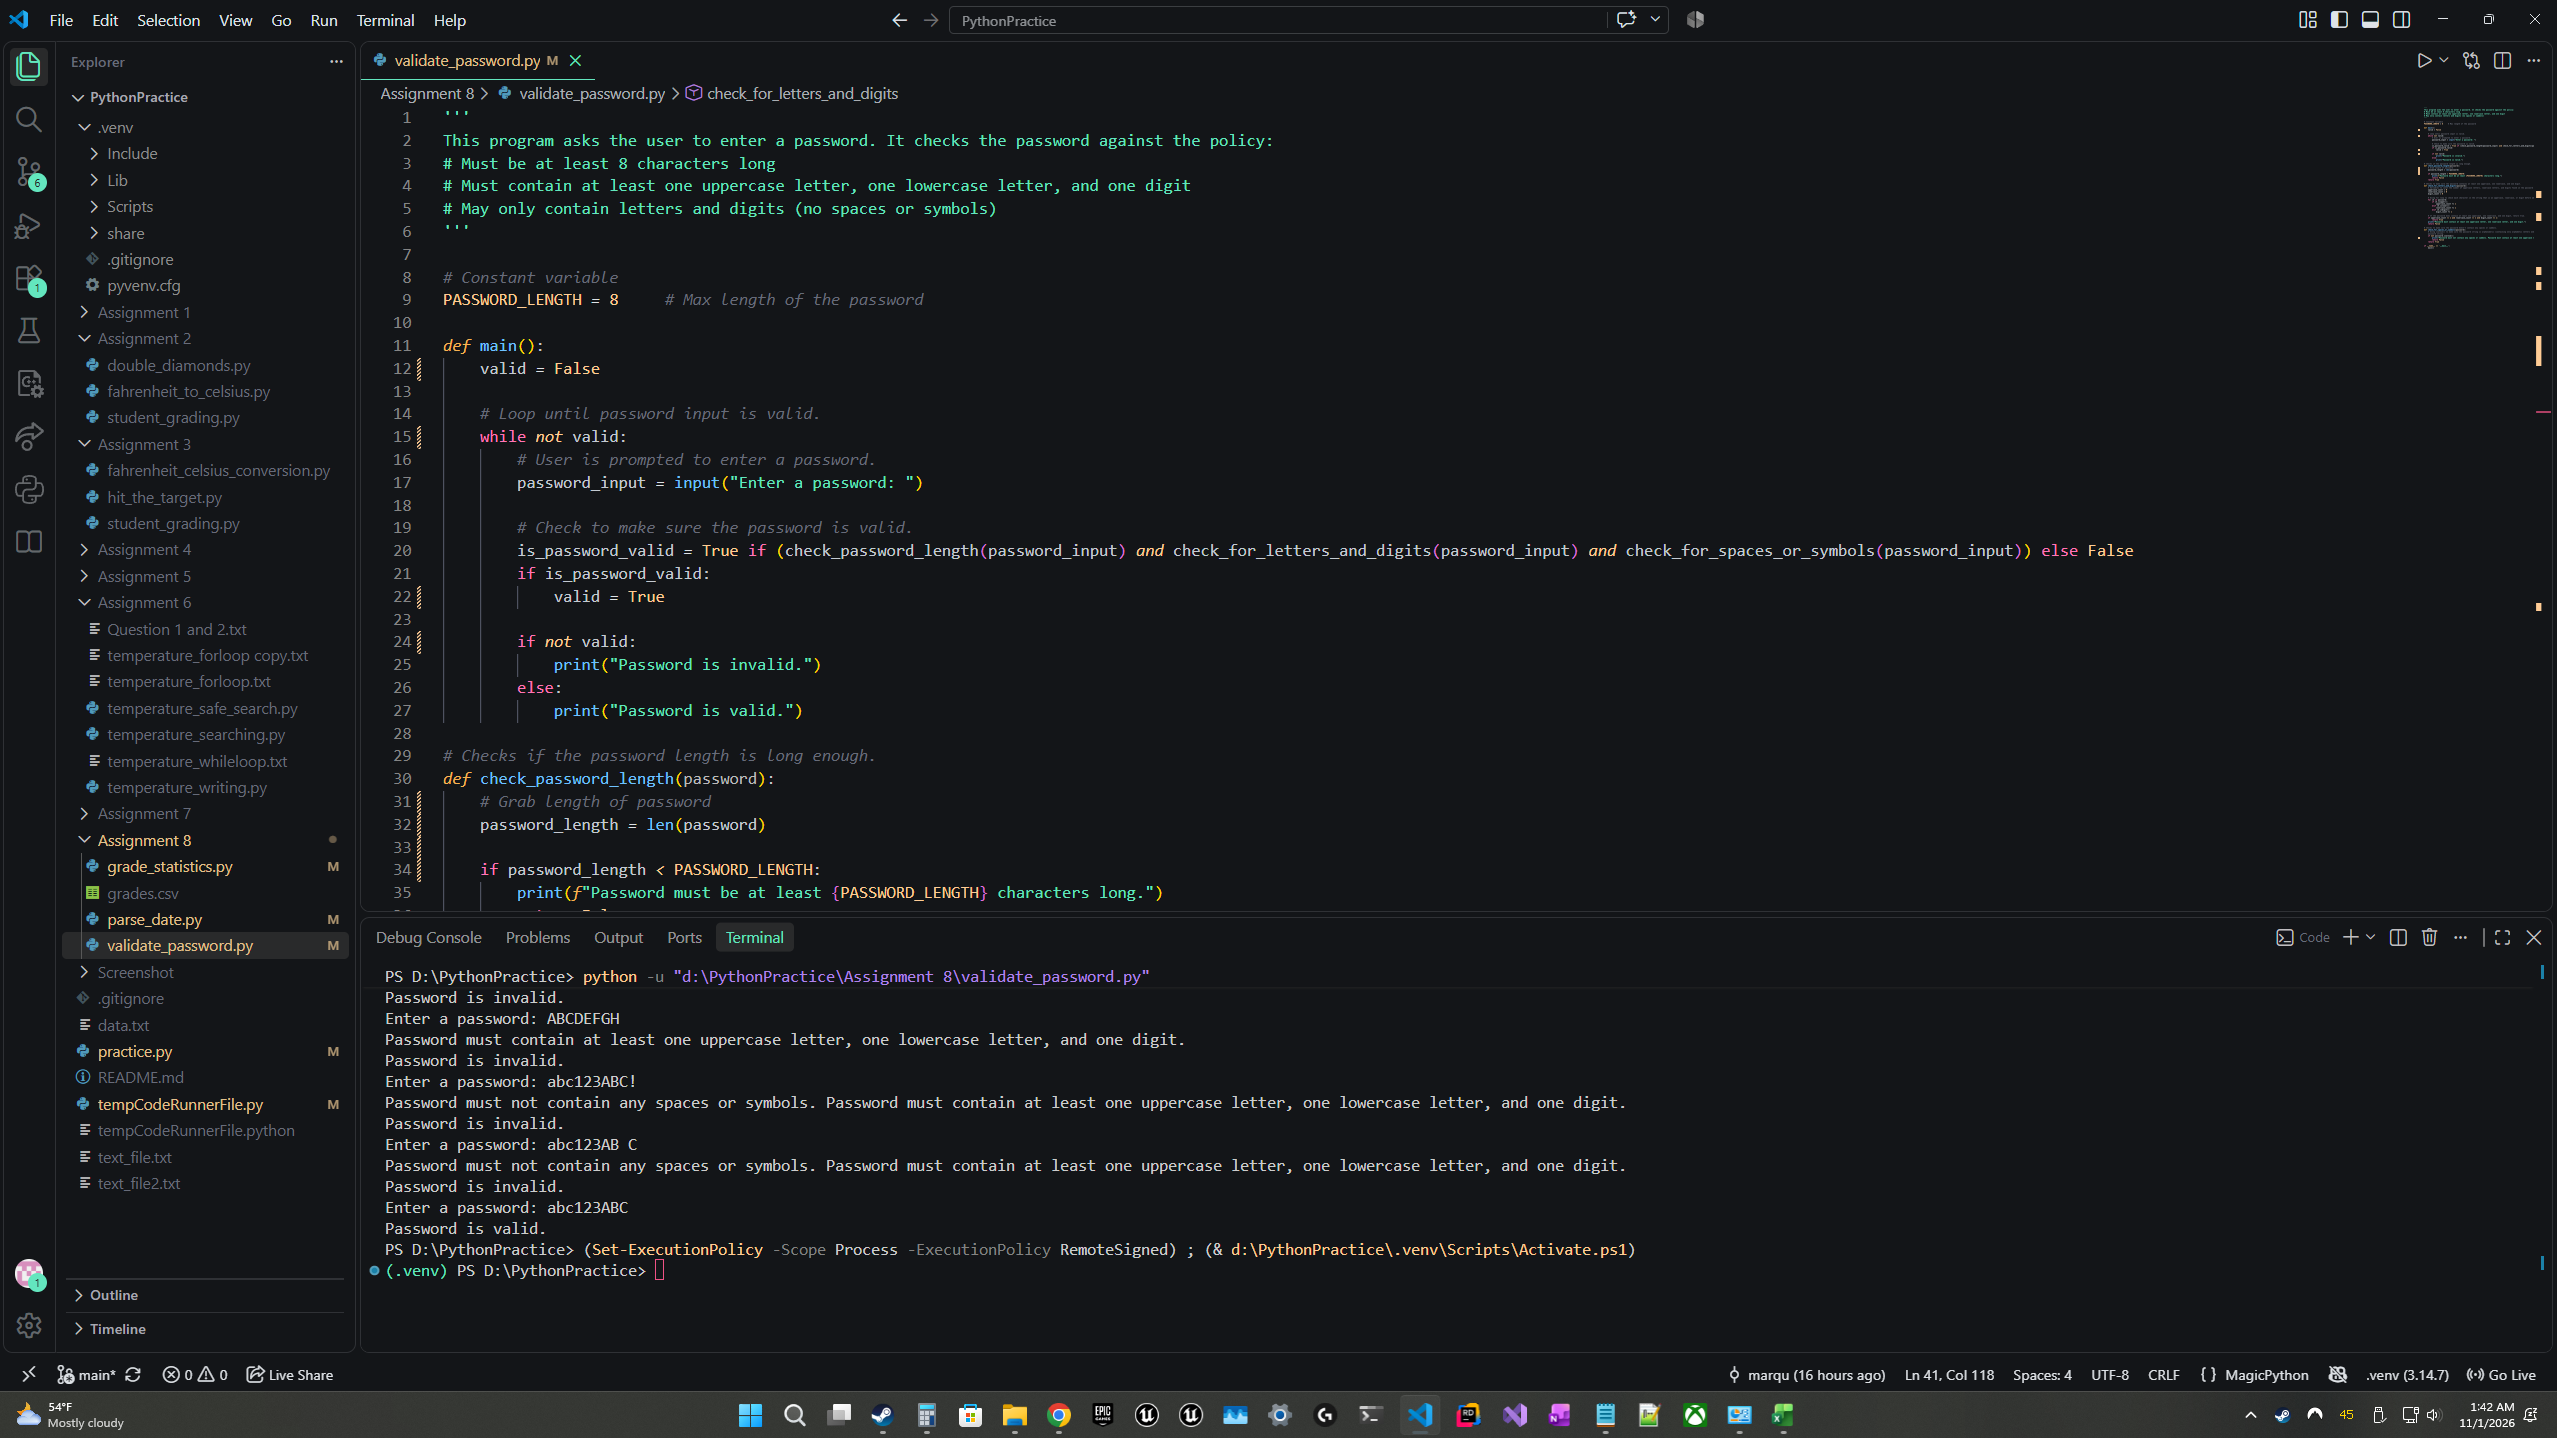
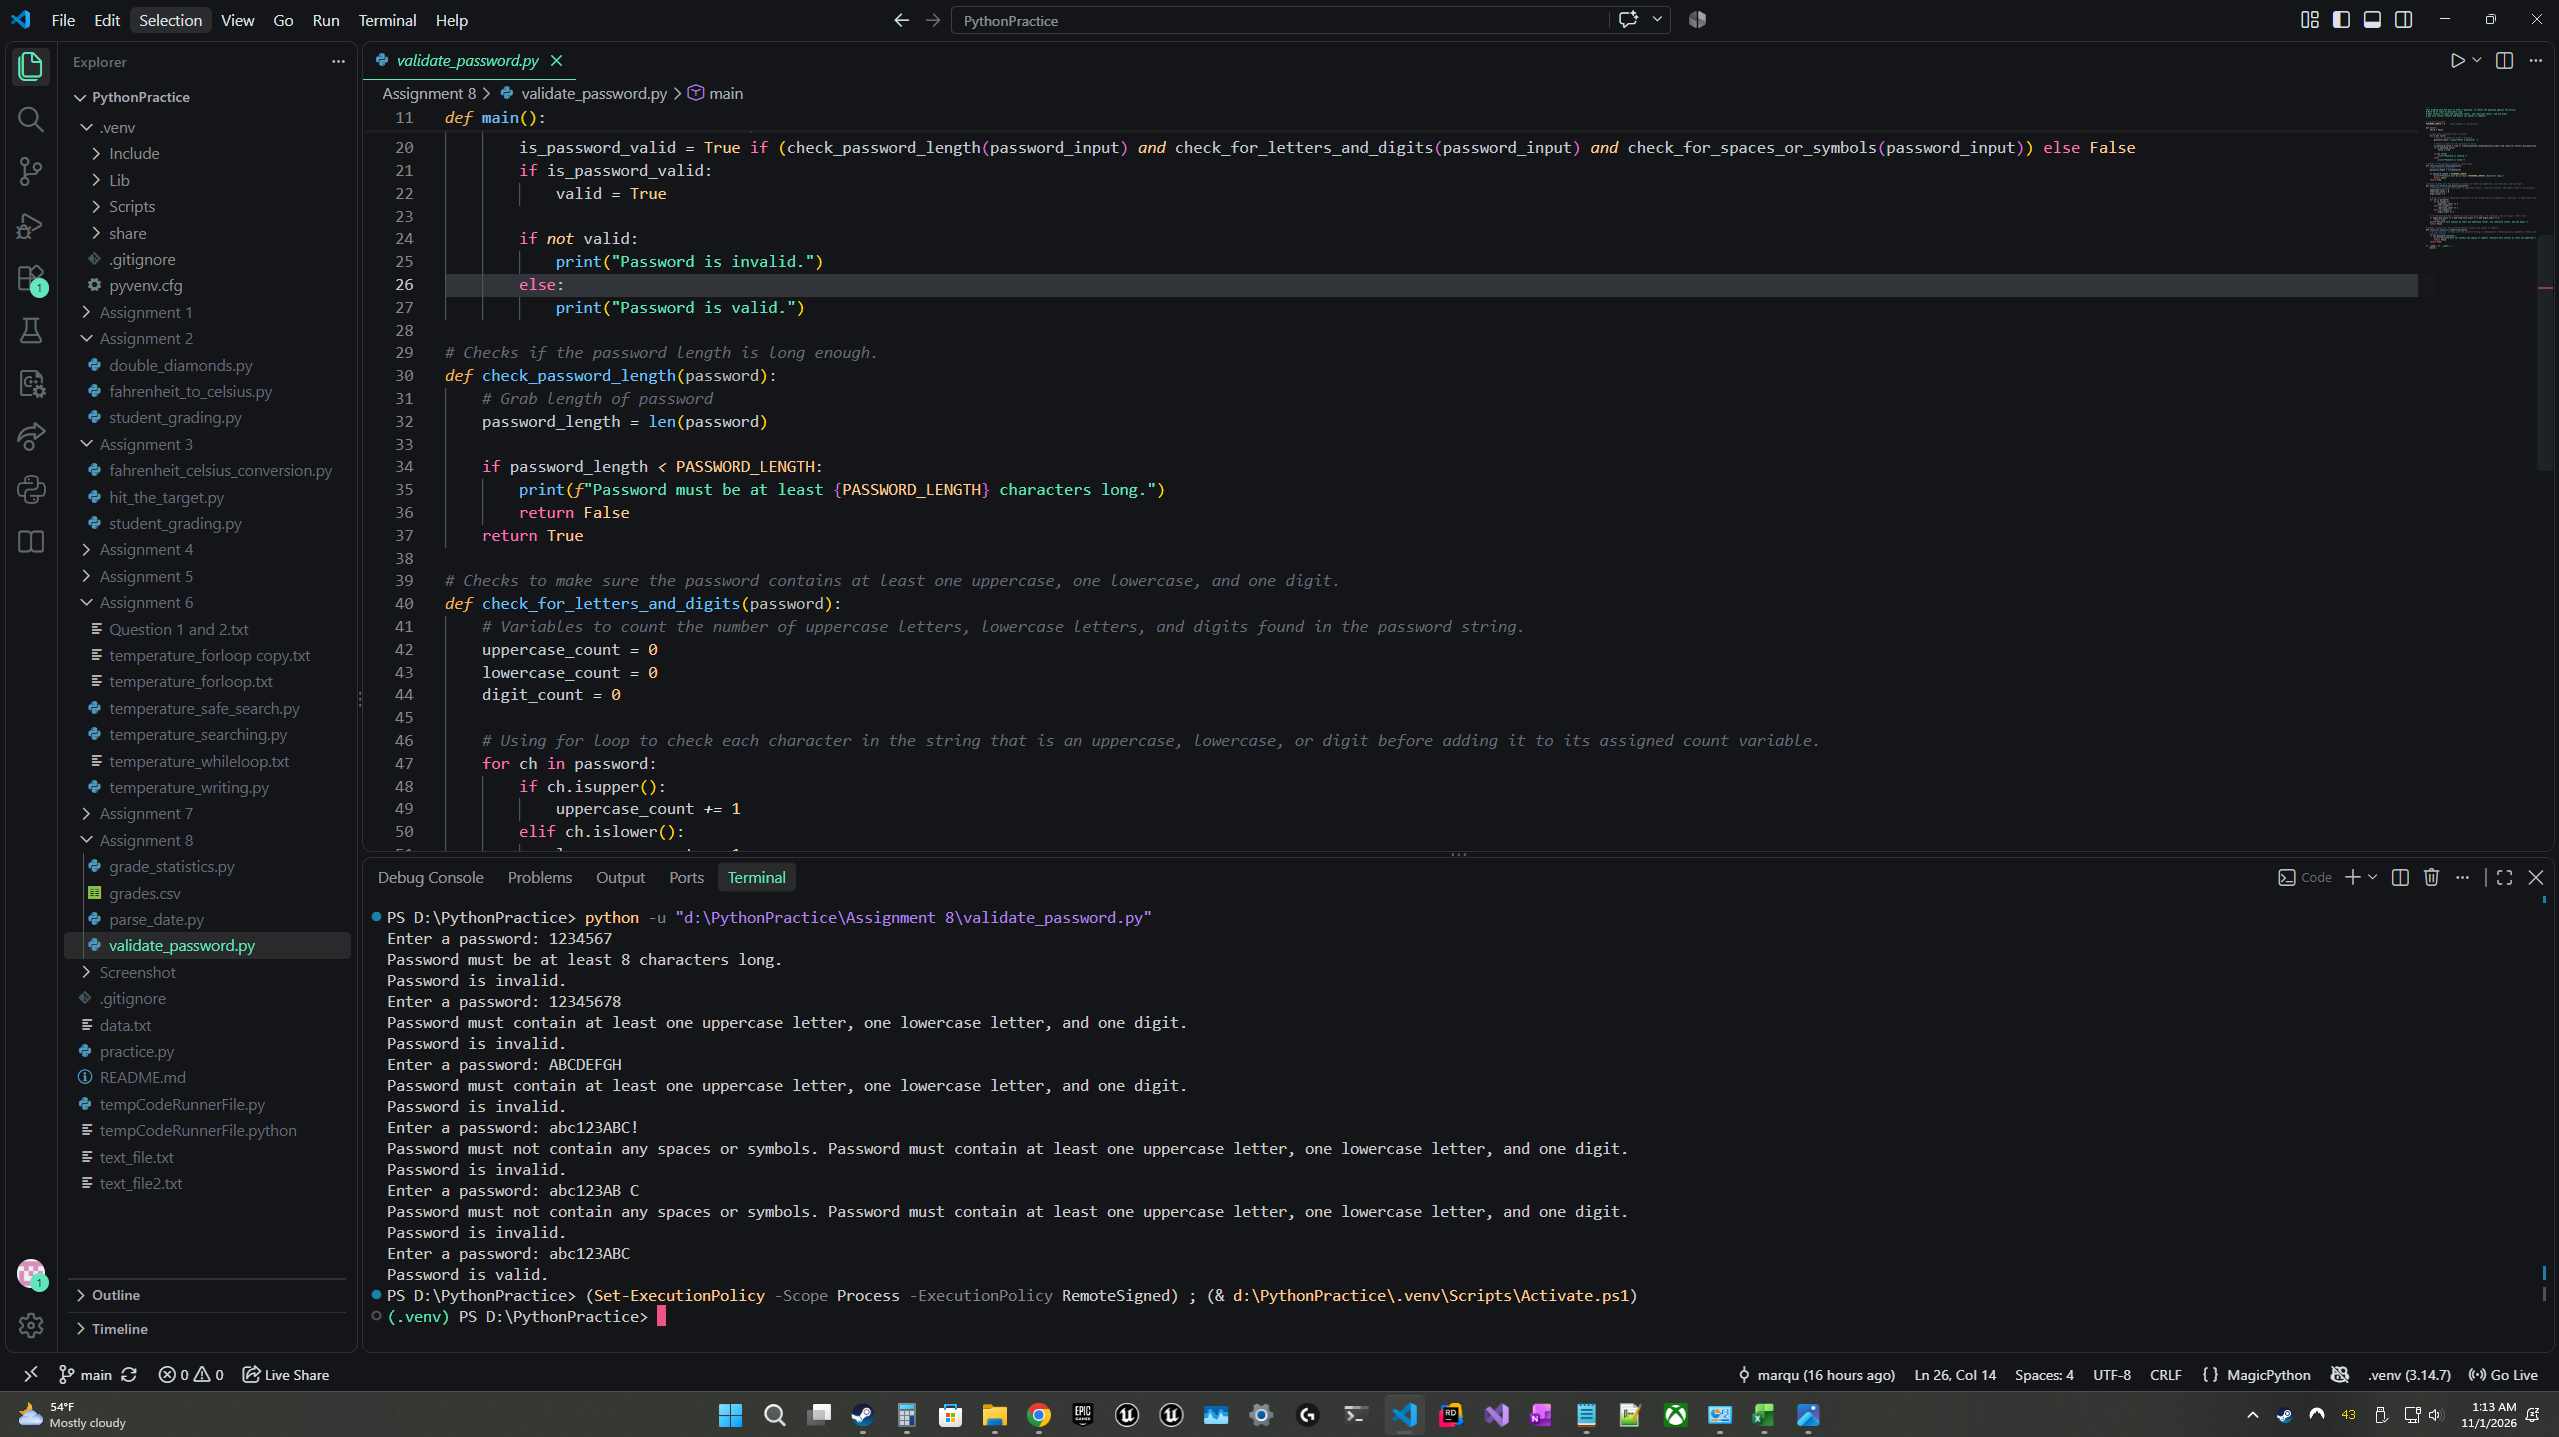
Your commitment log message to sum this batch of changes

diff --git a/practice.py b/practice.py
@@ -1,147 +1,3 @@
-from pathlib import Path
+f = ['0', '1']
 
-GRADES_FILE = Path(__file__).resolve().parent /"grades.csv"
-
-TEST_WEIGHT = 0.3
-EXAM_WEIGHT = 0.3
-DISCUSSION_WEIGHT = 0.2
-PROJECT_WEIGHT = 0.2
-
-
-def main():
-    """Read the grades file, compute each student's weighted final
-    grade, and print a summary of how many students fall into each
-    grade range.
-
-    # TODO - Read GRADES_FILE and build a list of each student's
-    #        weighted final grade (skip the header row, and use
-    #        process_row() to do the per-student work).
-    # TODO - Pass that list to analyze_grade() to print the summary.
-    # TODO - Use try/except to handle a missing file and any other
-    #        errors that can occur while reading or processing it.
-    """
-
-    # Empty student list and weighted grades to store values
-    student_list = []
-    weighted_grade_list = []
-
-    try:
-        with open(GRADES_FILE, 'r') as grades:
-            # Skipping the header row and starting on the row of the first student.
-            line = grades.readline()
-            line = grades.readlines()
-
-            for l in line:
-                # Splitting the commas before appending each student to list
-                s = l.split(',')
-                student_list.append(s)
-
-        # Once finished with the CSV file, calculate each student's average grades and weighted grades.
-        for i in range(len(student_list)):
-            # Getting each student's average scores of the test, exam, discussion, and project.
-            test_avg_score, exam_avg_score, discussion_avg_score, project_avg_score = process_row(student_list[i][2:])    # The [2:] is used to bypass the name and studentID
-  
-            # Calculating the weighted final score before adding the score to weighted grade list.
-            weight_final_grade = weight_final(test_avg_score, exam_avg_score, discussion_avg_score, project_avg_score)
-            weighted_grade_list.append(weight_final_grade)
-
-        # Calculating the average of the scores by adding all the students' weighted grades together.
-        average_scores = average_subject(weighted_grade_list)
-        print(f"The average of the {len(weighted_grade_list)} scores is: {average_scores}")
-
-        # Calculating how many students fall into each grade range.
-        analyze_grade(weighted_grade_list)
-    except FileNotFoundError as file_error:
-        print(file_error)
-
-def process_row(row):
-    """Given one row from the grades file, return that student's
-    weighted final grade (bypass the Name and StudentID columns)."""
-    # TODO - Implement this function.
-
-    # Constant variables inside this function. Based on the CSV file, the total number of each subject of tests, exams, and discussions.
-    TOTAL_TEST_SCORES = 4
-    TOTAL_EXAMS_SCORES = 2
-    TOTAL_DISCUSSION_SCORES = 2
-
-    # Used to keep calculation of the average grade scores
-    test_average_score = 0
-    exam_average_score = 0
-    discussion_average_score = 0
-    
-    # Calculating the test grade average
-    for i in range(0, len(row) - (TOTAL_TEST_SCORES + 1)):
-        test_average_score += (float(row[i]) * TEST_WEIGHT)
-    test_average_score /= TOTAL_TEST_SCORES
-
-    # Calculating the exam grade average
-    for i in range(4, len(row) - (TOTAL_EXAMS_SCORES + 1)):
-        exam_average_score += (float(row[i]) * EXAM_WEIGHT)
-    exam_average_score /= TOTAL_EXAMS_SCORES
-
-    # Calculating the discussion grade average
-    for i in range(6, len(row) - 1):
-        discussion_average_score += (float(row[i]) * DISCUSSION_WEIGHT)
-    discussion_average_score /= TOTAL_DISCUSSION_SCORES
-
-    # Project weighted grade
-    project_grade = float(row[-1]) * PROJECT_WEIGHT
-
-    # Return all the average scores
-    return test_average_score, exam_average_score, discussion_average_score, project_grade
-
-def average_subject(subject_list):
-    """Return the average of the scores in subject_list."""
-    # TODO - Implement this function.
-
-    # Calculating the average of the scores
-    average_score = sum(subject_list) / len(subject_list)
-    return average_score
-
-
-def weight_final(test_avg, exam_avg, discussion_avg, project_score):
-    """Return a student's weighted final grade, combining the test,
-    exam, discussion, and project scores using the weight constants
-    declared above."""
-    # TODO - Implement this function.
-
-    # Calculating the weighted final grade by adding the average scores of the test, exam, discussion, and project.
-    weighted_final_grade = (test_avg + exam_avg + discussion_avg + project_score) / 100
-    return weighted_final_grade
-
-
-def analyze_grade(weight_final_list):
-    """Count and print how many students fall into each grade range:
-    90 or above, 80-89, 70-79, 60-69, and below 60."""
-    # TODO - Implement this function.
-
-    # Variable counts of students with a grade of A (90 and highter), B (80-89), C (70-79), D (60-69), and F (below 60).
-    students_with_A_grade = 0
-    studenst_with_B_grade = 0
-    students_with_C_grade = 0
-    students_with_D_grade = 0
-    students_with_F_grade = 0
-
-    # Check each grade
-    for grade in weight_final_list:
-        current_grade = grade * 100
-        if current_grade >= 90:
-            students_with_A_grade += 1
-        elif current_grade >= 80 and grade < 90:
-            studenst_with_B_grade += 1
-        elif current_grade >= 70 and grade < 80:
-            students_with_C_grade += 1
-        elif current_grade >= 60 and grade < 70:
-            students_with_D_grade += 1
-        else:
-            students_with_F_grade += 1
-
-    # Printing number of stduents with final grade score 
-    print(f"Number of students with final grade 90 or above: {students_with_A_grade}")
-    print(f"Number of students with final grade 80-89: {studenst_with_B_grade}")
-    print(f"Number of students with final grade 70-79: {students_with_C_grade}")
-    print(f"Number of students with final grade 60-69: {students_with_D_grade}")
-    print(f"Number of students with final grade below 60: {students_with_F_grade}")
-
-if __name__ == "__main__":
-    main()
+print(sum(f))
